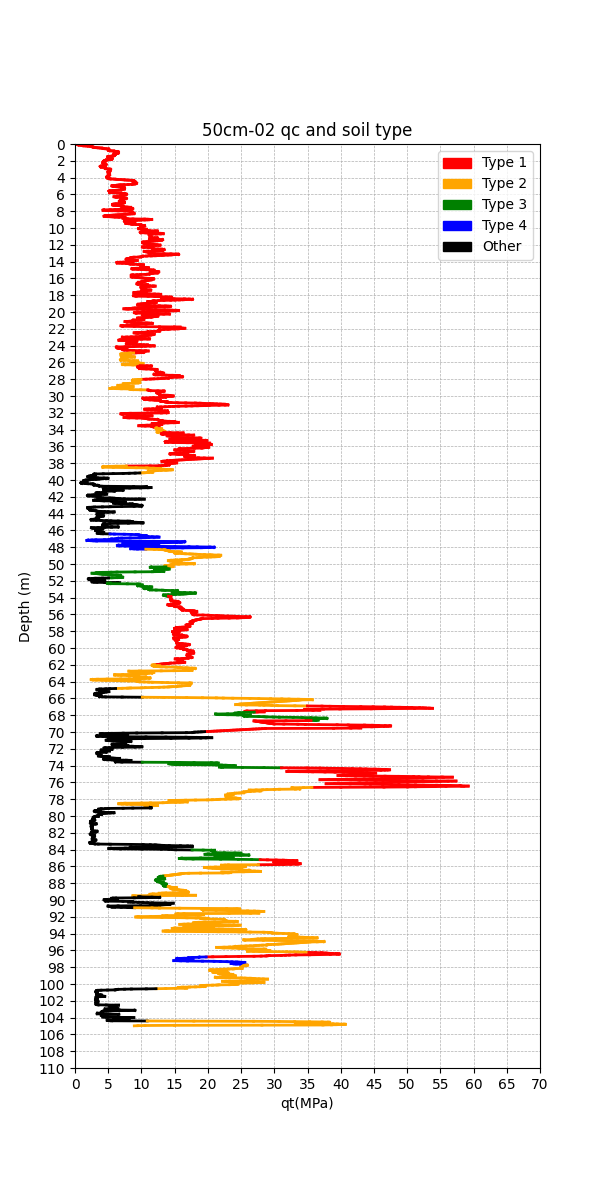
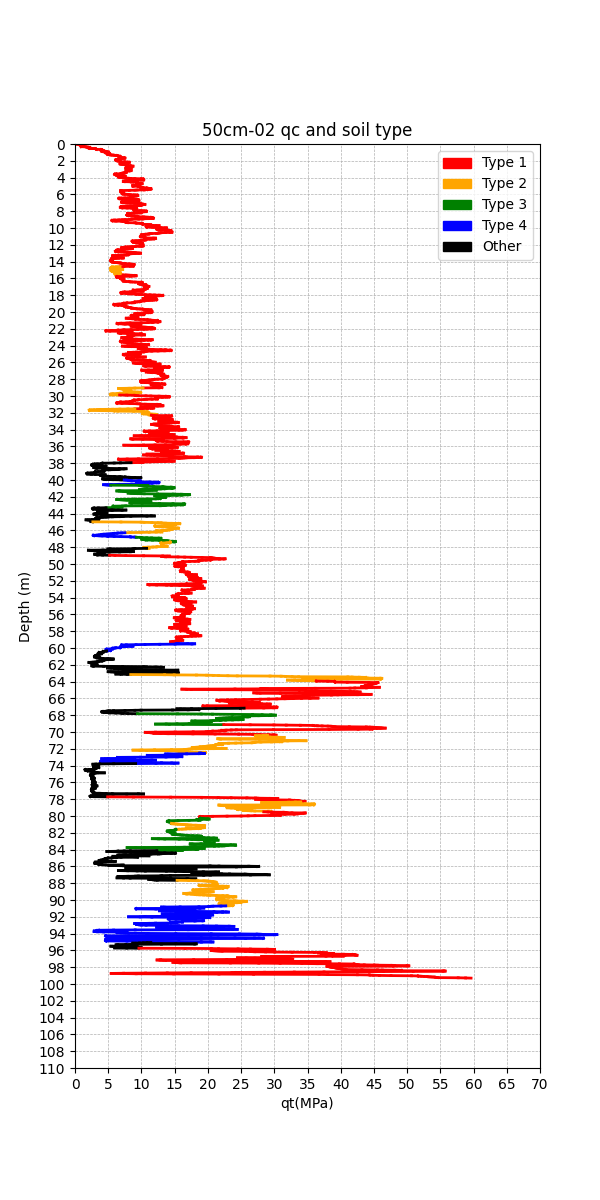
..

Changed region(s): [[0.12, 0.1233, 0.78, 0.8633]]

diff --git a/line.py b/line.py
@@ -17,61 +17,65 @@ def read_data(file_path):
     data = pd.read_excel(file_path)
     return data
 
-# 統計每種土壤的深度範圍，當遇到土壤類型變化時記錄範圍，並計算每段土壤的平均ic
-def calculate_depth_statistics(df):
-    # 假設 df 包含 'Depth (m)', 'qc (MPa)', '合併後', 'ic' 四列
+# 統計每種土壤的深度範圍，並計算平均IC和平均qc（前200筆資料不納入計算）
+def calculate_depth_statistics_with_qc_avg(df):
     depth_col = df['Depth (m)']
     type_col = df['合併後']
     ic_col = df['Ic']
-    mark=df['Mark2']
-    print(mark)
+    qc_col = df['qc (MPa)']
+    mark = df['Mark2']
 
-    # 準備變量來記錄每段土壤的範圍和平均ic
+    # 準備變量來記錄每段土壤的範圍、平均IC值和平均qc值
     result = []
-    current_type = type_col.iloc[0]
-    start_depth = depth_col.iloc[0]
-    ic_values = [ic_col.iloc[0]]  # 用來存儲當前段的所有ic值
+    current_type = type_col.iloc[200]  # 從第201筆資料開始
+    start_depth = depth_col.iloc[200]
+    ic_values = [ic_col.iloc[200]]  # 存儲當前段的所有IC值
+    qc_values = [qc_col.iloc[200]]  # 存儲當前段的所有qc值
 
-    # 遍歷每一行，當遇到土壤類型變化時，記錄當前土壤段的範圍
-    for i in range(1, len(df)):
+    # 遍歷每一行，從第201筆開始，當遇到土壤類型變化或標記改變時，記錄當前土壤段的範圍
+    for i in range(201, len(df)):
         if type_col.iloc[i] != current_type and mark.iloc[i] != '*':
-            # 土壤類型變化，記錄當前土壤的上限和下限以及平均ic值
-            end_depth = depth_col.iloc[i-1]
-            average_ic = sum(ic_values) / len(ic_values)  # 計算該段土壤的平均ic
-            result.append([current_type, start_depth, end_depth, average_ic])
-            
+            # 記錄當前土壤的範圍
+            end_depth = depth_col.iloc[i - 1]
+            average_ic = sum(ic_values) / len(ic_values)  # 計算該段土壤的平均IC
+            average_qc = sum(qc_values) / len(qc_values)  # 計算該段土壤的平均qc
+
+            # 添加到結果中
+            result.append([current_type, start_depth, end_depth, average_ic, average_qc])
+
             # 更新當前土壤類型和新的開始深度
             current_type = type_col.iloc[i]
             start_depth = depth_col.iloc[i]
-            ic_values = [ic_col.iloc[i]]  # 重置ic值列表為當前行的ic
+            ic_values = [ic_col.iloc[i]]  # 重置IC值列表
+            qc_values = [qc_col.iloc[i]]  # 重置qc值列表
         else:
-            # 如果類型沒變，繼續添加該段的ic值
+            # 如果類型沒變，繼續添加該段的IC和qc值
             ic_values.append(ic_col.iloc[i])
+            qc_values.append(qc_col.iloc[i])
 
-    # 記錄最後一段土壤的範圍及平均ic值
+    # 記錄最後一段土壤的範圍及平均IC和平均qc值
     end_depth = depth_col.iloc[-1]
     average_ic = sum(ic_values) / len(ic_values)
-    result.append([current_type, start_depth, end_depth, average_ic])
+    average_qc = sum(qc_values) / len(qc_values)
+    result.append([current_type, start_depth, end_depth, average_ic, average_qc])
 
     # 創建 DataFrame 保存結果
-    depth_stats_df = pd.DataFrame(result, columns=['Type', 'Upper Depth', 'Lower Depth', 'Average IC'])
+    depth_stats_df = pd.DataFrame(result, columns=['Type', 'Upper Depth', 'Lower Depth', 'Average IC', 'Average qc'])
     
-    print("土壤類型深度統計和平均 IC：")
+    print("土壤類型深度統計和平均 IC 以及平均 qc（排除前200筆資料）：")
     print(depth_stats_df)
 
     # 將結果保存為 Excel 文件
-    depth_stats_df.to_excel('soil_depth_statistics_with_ic.xlsx', index=False, engine='openpyxl')
+    depth_stats_df.to_excel('soil_depth_statistics_with_ic_and_qc_avg_skipping_200.xlsx', index=False, engine='openpyxl')
     
     return depth_stats_df
 
 # 繪製數據圖像
 def plot_data(df):
-    # 假設 df 包含 'Depth', 'Value', 'Type' 三列
+    # 假設 df 包含 'Depth', 'qc (MPa)', '合併後' 三列
     plot_depth = df['Depth (m)']
     plot_value = df['qc (MPa)']
     plot_type = df['合併後']
-
-    print(plot_type)
 
     # 定義顏色函數，根據類型返回對應顏色
     def get_color(plot_type_value):
@@ -96,7 +100,6 @@ def plot_data(df):
     # 繪製每一段的線條
     for i in range(len(plot_type)-1):
         color = get_color(plot_type.iloc[i])
-        print(color)
         ax.plot(plot_value.iloc[i:i+2], plot_depth.iloc[i:i+2], color=color, lw=2)
     
     # 反轉y軸
@@ -141,5 +144,5 @@ if __name__ == "__main__":
     # 繪製圖像
     plot_data(new_df)
 
-    # 計算深度範圍及平均 IC，並保存結果於一個新的 xlsx 文件
-    calculate_depth_statistics(new_df)
+    # 計算深度範圍及平均 IC 和平均 qc，並保存結果於一個新的 xlsx 文件
+    calculate_depth_statistics_with_qc_avg(new_df)

diff --git a/111.py b/111.py
@@ -1,79 +1,18 @@
 import pandas as pd
 import matplotlib.pyplot as plt
-from sklearn.ensemble import RandomForestClassifier
-from sklearn.model_selection import train_test_split
-from sklearn.metrics import classification_report
+import matplotlib.patches as mpatches
 
 # 读取两个文件
-file_1_path = 'C:/Users/yo/Desktop/CECI/02-50cm-soil_depth_statistics_with_ic.xlsx'
-file_2_path = 'C:/Users/yo/Desktop/CECI/04-50cm-soil_depth_statistics_with_ic.xlsx'
+file_1_path = 'C:/Users/yo/Desktop/CECI/02-soil_depth_statistics_with_ic_and_qc_avg_skipping_200.xlsx'
+file_2_path = 'C:/Users/yo/Desktop/CECI/04-soil_depth_statistics_with_ic_and_slope_skipping_200.xlsx'
 
 df_1 = pd.read_excel(file_1_path)
 df_2 = pd.read_excel(file_2_path)
+section1 = [0,40]
+section2 = [40, 60]
+section3 = [60, 80]
+section4 = [80, 100]
+length = max(len(df_1), len(df_2))
+print(length)
 
-# 合并数据
-df_combined = pd.concat([df_1, df_2], ignore_index=True)
-
-# 检查缺失值并删除缺失值
-df_combined = df_combined.dropna()
-
-# 创建新的特征（例如深度的区间分类）
-df_combined['Depth Category'] = pd.cut(df_combined['Upper Depth'], bins=10)
-
-# 假设我们要预测地层类型
-X = df_combined[['Upper Depth', 'Lower Depth', 'Average IC']]
-y = df_combined['Type']
-
-# 分割数据集
-X_train, X_test, y_train, y_test = train_test_split(X, y, test_size=0.2, random_state=42)
-
-# 初始化并训练模型
-model = RandomForestClassifier(n_estimators=100)
-model.fit(X_train, y_train)
-
-# 预测
-y_pred = model.predict(X_test)
-
-# 评估模型
-print(classification_report(y_test, y_pred))
-
-# 将预测结果添加到 DataFrame
-df_combined['Predicted Type'] = model.predict(X)
-
-# 将结果保存为 Excel
-df_combined.to_excel('predicted_geology_layers.xlsx', index=False)
-
-# 可视化地层剖面
-# 定义颜色映射，每种地层类型使用不同的颜色
-type_colors = {1: 'lightgreen', 2: 'lightblue', 3: 'yellow', 4: 'orange', 5: 'tan', 6: 'red'}
-
-# 创建图形
-fig, ax = plt.subplots(figsize=(8, 12))
-
-# 遍历每一行，根据地层类型绘制对应的填充区域
-for idx, row in df_combined.iterrows():
-    upper_depth = row['Upper Depth']
-    lower_depth = row['Lower Depth']
-    pred_type = row['Predicted Type']
-    
-    # 获取颜色
-    color = type_colors.get(pred_type, 'gray')
-    
-    # 绘制地层条状图（X轴代表样本编号，Y轴代表深度）
-    ax.bar([idx], lower_depth - upper_depth, bottom=upper_depth, width=0.8, color=color, edgecolor='black')
-
-# 设置坐标轴和标题
-ax.set_title("Predicted Geology Layers by Depth")
-ax.set_xlabel("Samples")
-ax.set_ylabel("Depth (m)")
-
-# 反转Y轴（地层从上到下）
-ax.invert_yaxis()
-
-# 添加图例
-legend_labels = [f'Type {t}' for t in type_colors.keys()]
-legend_colors = [plt.Line2D([0], [0], color=c, lw=4) for c in type_colors.values()]
-ax.legend(legend_colors, legend_labels, title="Soil Types", loc="upper right")
-
-plt.tight_layout()
-plt.show()
+# 把兩個數據分段

diff --git a/test.py b/test.py
@@ -23,7 +23,7 @@ for layer in layers:
 drill_holes = [0,3,6]
 for x in drill_holes:
     ax.axvline(x=x, color='yellow', linestyle='-', linewidth=2)
-k
+
 # 設置圖形屬性
 ax.set_xlim(0, 6)
 ax.set_ylim(0, 1)
